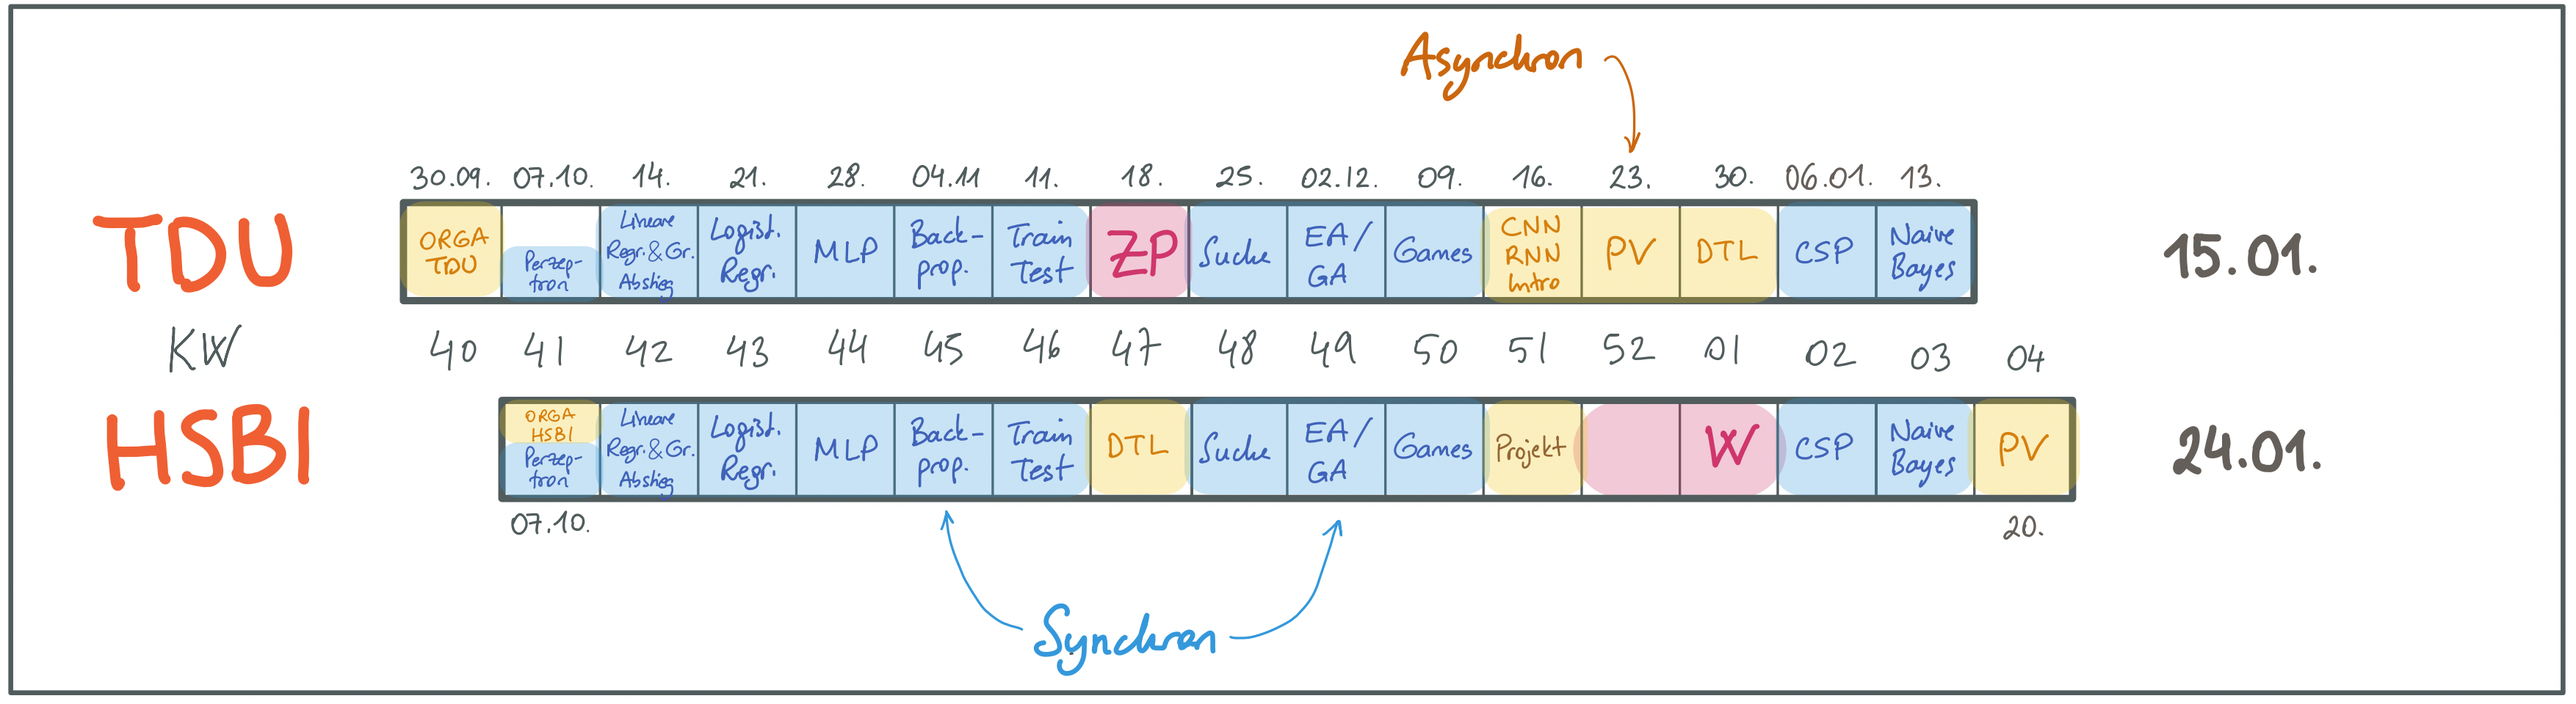
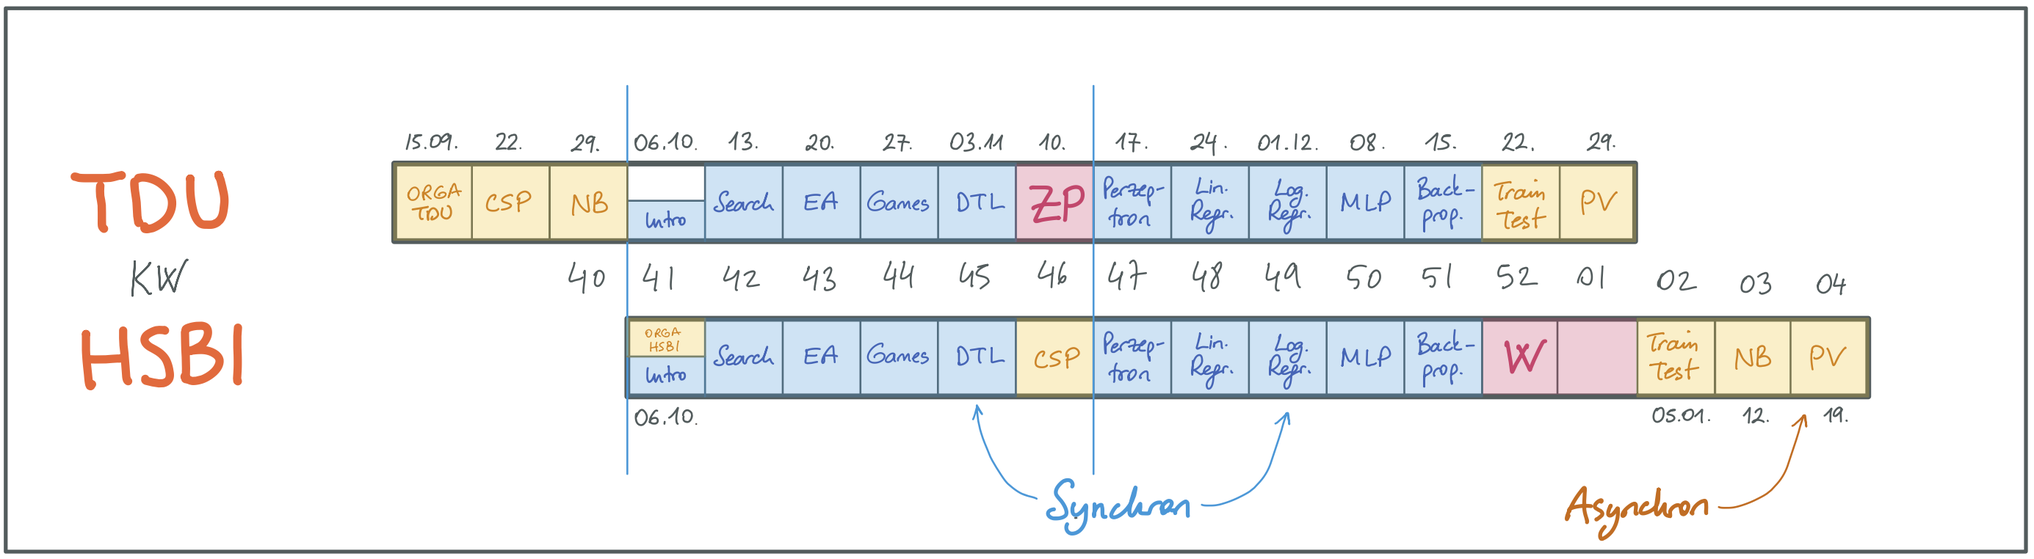
9fb9766 (orga: lecture starts later on 01.12. & 08.12. 60fdb3b89aab9c788a77d6105fc1ff8878502cc5, 2025-09-04)

diff --git a/readme_hsbi.md b/readme_hsbi.md
@@ -80,26 +80,24 @@ Abgabe der Übungsblätter jeweils **Montag bis 11:00 Uhr** im
 [ILIAS](https://www.hsbi.de/elearning/goto.php?target=exc_1420535&client_id=FH-Bielefeld).
 Vorstellung der Lösung im jeweiligen Praktikum in der Abgabewoche.
 
-| Monat | Woche | Vorlesung | Lead | Abgabe Aufgabenblatt | Vorstellung Praktikum |
+| Woche | Thema | Vorlesung: Selbststudium (Vorbereitung) | Vorlesung: Gemeinsame Sitzung | Praktikum | AI Connect |
 |:---|:---|:---|:---|:---|:---|
-| Oktober | 41 | 07.: [Orga](https://www.hsbi.de/elearning/data/FH-Bielefeld/lm_data/lm_1358898/index.html#überblick-modulinhalte) (*Zoom*); [Einführung KI](lecture/intro/intro1-overview.md), [Problemlösen](lecture/intro/intro2-problemsolving.md); [Machine Learning 101](lecture/dtl/dtl1-mlbasics.md), [Perzeptron](lecture/nn/nn01-perceptron.md) | Carsten, Canan |  |  |
-|  | 42 | 14.: [Lineare Regression](lecture/nn/nn02-linear-regression.md) | Canan | 14.: [Blatt: Perzeptron](homework/sheet-nn-perceptron.md) | 14\. / 15. |
-|  | 43 | 21.: [Logistische Regression](lecture/nn/nn03-logistic-regression.md) | Canan |  |  |
-|  | 44 | 28.: [Overfitting](lecture/nn/nn04-overfitting.md), [Multilayer Perceptron](lecture/nn/nn05-mlp.md) | Canan | 28.: [Blatt: Regression](homework/sheet-nn-regression.md) | 28\. / 29. |
-| November | 45 | 04.: [Backpropagation](lecture/nn/nn06-backprop.md) | Canan | 04.: [Blatt: MLP](homework/sheet-nn-mlp.md) | 04\. / 05. |
-|  | 46 | 11.: [Training & Testing](lecture/nn/nn07-training-testing.md), [Performanzanalyse](lecture/nn/nn08-testing.md) | Canan | 11.: [Blatt: Backpropagation](homework/sheet-nn-backprop.md) | 11\. / 12. |
-|  | 47 | 18.: [Machine Learning 101](lecture/dtl/dtl1-mlbasics.md), [CAL2](lecture/dtl/dtl2-cal2.md), [Pruning](lecture/dtl/dtl3-pruning.md), [CAL3](lecture/dtl/dtl4-cal3.md), [Entropie](lecture/dtl/dtl5-entropy.md), [ID3 und C4.5](lecture/dtl/dtl6-id3.md) | Carsten |  |  |
-|  | 48 | 25.: [Tiefensuche](lecture/searching/search1-dfs.md), [Breitensuche](lecture/searching/search2-bfs.md), [Branch-and-Bound](lecture/searching/search3-branchandbound.md), [Best First](lecture/searching/search4-bestfirst.md), [A-Stern](lecture//searching/search5-astar.md) | Carsten | 25.: [Blatt: DTL](homework/sheet-dtl.md) | 25\. / 26. |
-| Dezember | 49 | 02.: [Gradientensuche](lecture/searching/search6-gradient.md), [Simulated Annealing](lecture/searching/search7-annealing.md); [Intro EA/GA](lecture/ea/ea1-intro.md), [Genetische Algorithmen](lecture/ea/ea2-ga.md) | Carsten | 02.: [Blatt: Suche](homework/sheet-search.md) | 02\. / 03. |
-|  | 50 | 09.: [Optimale Spiele](lecture/games/games1-intro.md), [Games mit Minimax](lecture/games/games2-minimax.md), [Minimax und Heuristiken](lecture/games/games3-heuristics.md), [Alpha-Beta-Pruning](lecture/games/games4-alphabeta.md) | Carsten | 09.: [Blatt: EA/GA](homework/sheet-ea.md) | 09\. / 10. |
-|  | 51 | 16.: ~~Projektwoche Semester 1+3~~ Intro Deep Learning und offene Sprechstunde | Canan, Carsten |  |  |
-|  | 52 | 23.: *Weihnachtspause* |  |  |  |
-|  | 01 | 30.: *Weihnachtspause* |  |  |  |
-| Januar | 02 | 06.: [Einführung Constraints](lecture/csp/csp1-intro.md), [Lösen von diskreten CSP](lecture/csp/csp2-backtrackingsearch.md), [CSP und Heuristiken](lecture/csp/csp3-heuristics.md), [Kantenkonsistenz und AC-3](lecture/csp/csp4-ac3.md) | Carsten | 06.: [Blatt: Games](homework/sheet-games.md) | 06\. / 07. |
-|  | 03 | 13.: [Wahrscheinlichkeitstheorie](lecture/naivebayes/nb1-probability.md), [Naive Bayes](lecture/naivebayes/nb2-naivebayes.md) | Carsten | 13.: [Blatt: CSP](homework/sheet-csp.md) | 13\. / 14. |
-|  | 04 | 20.: Rückblick (*Zoom*), [Prüfungsvorbereitung HSBI](admin/exams-hsbi.md) | Carsten | 20.: [Blatt: Naive Bayes](homework/sheet-nb.md) | 20\. / 21. |
-| *(Prüfungsphase I)* |  | **Klausur**: Di, 04. Feb 2025, 10-18 Uhr (je Klausur 90’, Vergabe ca. 2 Wochen vorher) |  |  |  |
-| *(Prüfungsphase II)* |  | **Klausur**: Di, 01. Apr 2025, 10-16 Uhr (je Klausur 90’, Vergabe ca. 2 Wochen vorher) |  |  |  |
+| 06.10. | Orga, Intro | [Einführung KI](lecture/intro/intro1-overview.md) \| [Problemlösen](lecture/intro/intro2-problemsolving.md) | [Orga](https://github.com/Artificial-Intelligence-HSBI-TDU/KI-Vorlesung-W25/blob/master/readme_hsbi.md) (*Zoom*) \|\| Einführung Jupyter-Notebooks |  |  |
+| 13.10. | Search | [Tiefensuche](lecture/searching/search1-dfs.md) \| [Breitensuche](lecture/searching/search2-bfs.md) \| [Branch-and-Bound](lecture/searching/search3-branchandbound.md) \| [Best First](lecture/searching/search4-bestfirst.md) | [A-Stern](lecture/searching/search5-astar.md) |  |  |
+| 20.10. | EA | [Gradientensuche](lecture/searching/search6-gradient.md) \| [Simulated Annealing](lecture/searching/search7-annealing.md) \|\| [Intro EA/GA](lecture/ea/ea1-intro.md) | [Genetische Algorithmen](lecture/ea/ea2-ga.md) | [Blatt: Suche](homework/sheet-search.md) |  |
+| 27.10. | Games | [Optimale Spiele](lecture/games/games1-intro.md) \| [Games mit Minimax](lecture/games/games2-minimax.md) \| [Minimax und Heuristiken](lecture/games/games3-heuristics.md) | [Alpha-Beta-Pruning](lecture/games/games4-alphabeta.md) | [Blatt: EA/GA](homework/sheet-ea.md) |  |
+| 03.11. | DTL | [Machine Learning 101](lecture/dtl/dtl1-mlbasics.md) \| [CAL2](lecture/dtl/dtl2-cal2.md) \| [Pruning](lecture/dtl/dtl3-pruning.md) \| [CAL3](lecture/dtl/dtl4-cal3.md) | [Entropie](lecture/dtl/dtl5-entropy.md) \| [ID3 und C4.5](lecture/dtl/dtl6-id3.md) | [Blatt: Games](homework/sheet-games.md) |  |
+| 10.11. | CSP | [Einführung Constraints](lecture/csp/csp1-intro.md) \| [Lösen von diskreten CSP](lecture/csp/csp2-backtrackingsearch.md) \| [CSP und Heuristiken](lecture/csp/csp3-heuristics.md) | [Kantenkonsistenz und AC-3](lecture/csp/csp4-ac3.md) \| **TODO**: Backjumping oder SAT oder Bin Packing | [Blatt: DTL](homework/sheet-dtl.md) |  |
+| 17.11. | Perzeptron | [Perzeptron](lecture/nn/nn01-perceptron.md) | Perzeptron Lernalgorithmus Beispiel | [Blatt: CSP](homework/sheet-csp.md) |  |
+| 24.11. | Lin. Regr. | [Lineare Regression und Gradientenabstieg](lecture/nn/nn02-linear-regression.md) | Gradientenabstieg Beispiel | [Blatt: Perzeptron](homework/sheet-nn-perceptron.md) |  |
+| 01.12. | Log. Regr. | [Logistische Regression](lecture/nn/nn03-logistic-regression.md) | **ab 09:00**: Logistische Regression Beispiel |  | **Mo, 01.12., 08:00 Uhr: Kick-Off und Team-Building** |
+| 08.12. | MLP | [Overfitting und Regularisierung](lecture/nn/nn04-overfitting.md) \|\| [Multilayer Perceptron (MLP)](lecture/nn/nn05-mlp.md) | **ab 09:00**: MLP Beispiel |  | **Mo, 08.12., 08:00 Uhr: Project Launch** |
+| 15.12. | Backprop | [Backpropagation](lecture/nn/nn06-backprop.md) | Backpropagation Beispiel |  | **Fr, 19.12., 10:30 Uhr: Team-Präsentationen** |
+| *22.12.* |  |  | *Weihnachtspause* |  |  |
+| *29.12.* |  |  | *Weihnachtspause* |  |  |
+| 05.01. | Train&Test | [Training & Testing](lecture/nn/nn07-training-testing.md) | [Performanzanalyse](lecture/nn/nn08-testing.md) | [Blatt: MLP](homework/sheet-nn-mlp.md) |  |
+| 12.01. | NB | [Wahrscheinlichkeitstheorie](lecture/naivebayes/nb1-probability.md) \| [Naive Bayes](lecture/naivebayes/nb2-naivebayes.md) | **TODO**: Bayes’sche Inferenz/Netze | [Blatt: Backpropagation](homework/sheet-nn-backprop.md) |  |
+| 19.01. | PV | [Prüfungsvorbereitung HSBI](admin/exams-hsbi.md) | Rückblick (*Zoom*) | [Blatt: Naive Bayes](homework/sheet-nb.md) |  |
 
 ## Prüfungsform, Note und Credits (HSBI)
 
@@ -159,4 +157,4 @@ Unless otherwise noted, this work is licensed under CC BY-SA 4.0.
   on Pixabay.com ([Pixabay
   License](https://pixabay.com/de/service/license/))
 
-<blockquote><p><sup><sub><strong>Last modified:</strong> 3aec522 (orga: fix lecture times table, 2025-08-29)<br></sub></sup></p></blockquote>
+<blockquote><p><sup><sub><strong>Last modified:</strong> 60fdb3b (orga: lecture starts later on 01.12. & 08.12., 2025-09-04)<br></sub></sup></p></blockquote>

diff --git a/readme_tdu.md b/readme_tdu.md
@@ -72,24 +72,24 @@ Classroom](https://classroom.google.com/c/NzE4Mzk0NDE5ODEz?cjc=fhzfku3))
 
 ## Fahrplan (TDU)
 
-| KW | Monat | Tag | Vorlesung | Lead | Abgabe Übung |
+| Woche | Thema | Vorlesung: Selbststudium (Vorbereitung) | Vorlesung: Gemeinsame Sitzung | Übung | AI Connect |
 |:---|:---|:---|:---|:---|:---|
-| 40 | Sep | 30\. | [Orga](https://www.hsbi.de/elearning/data/FH-Bielefeld/lm_data/lm_1358898/index.html#überblick-modulinhalte) (*Zoom*); [Einführung KI](lecture/intro/intro1-overview.md), [Problemlösen](lecture/intro/intro2-problemsolving.md) | Canan, Carsten |  |
-| 41 | Okt | 07\. (**12:30 - 13:30** Uhr TR) | [Machine Learning 101](lecture/dtl/dtl1-mlbasics.md), [Perzeptron](lecture/nn/nn01-perceptron.md) | Canan |  |
-| 42 |  | 14\. | [Lineare Regression](lecture/nn/nn02-linear-regression.md) | Canan | [Blatt: Perzeptron](homework/sheet-nn-perceptron.md) |
-| 43 |  | 21\. | [Logistische Regression](lecture/nn/nn03-logistic-regression.md) | Canan |  |
-| 44 |  | 28\. | [Overfitting](lecture/nn/nn04-overfitting.md), [Multilayer Perceptron](lecture/nn/nn05-mlp.md) | Canan | [Blatt: Regression](homework/sheet-nn-regression.md) |
-| 45 | Nov | 04\. | [Backpropagation](lecture/nn/nn06-backprop.md) | Canan | [Blatt: MLP](homework/sheet-nn-mlp.md) |
-| 46 |  | 11\. | [Training & Testing](lecture/nn/nn07-training-testing.md), [Performanzanalyse](lecture/nn/nn08-testing.md) | Canan | [Blatt: Backpropagation](homework/sheet-nn-backprop.md) |
-| 47 |  | 18\. | **Zwischenprüfung** |  |  |
-| 48 |  | 25\. | [Tiefensuche](lecture/searching/search1-dfs.md), [Breitensuche](lecture/searching/search2-bfs.md), [Branch-and-Bound](lecture/searching/search3-branchandbound.md), [Best First](lecture/searching/search4-bestfirst.md), [A-Stern](lecture//searching/search5-astar.md) | Carsten |  |
-| 49 | Dez | 02\. | [Gradientensuche](lecture/searching/search6-gradient.md), [Simulated Annealing](lecture/searching/search7-annealing.md); [Intro EA/GA](lecture/ea/ea1-intro.md), [Genetische Algorithmen](lecture/ea/ea2-ga.md) | Carsten | [Blatt: Suche](homework/sheet-search.md) |
-| 50 |  | 09\. | [Optimale Spiele](lecture/games/games1-intro.md), [Games mit Minimax](lecture/games/games2-minimax.md), [Minimax und Heuristiken](lecture/games/games3-heuristics.md), [Alpha-Beta-Pruning](lecture/games/games4-alphabeta.md) | Carsten | [Blatt: EA/GA](homework/sheet-ea.md) |
-| 51 |  | 16\. | [Vorschau Deep Learning (CNN, RNN)](lecture/nn/nn10-cnn.md) | Canan | [Blatt: Games](homework/sheet-games.md) |
-| 52 |  | 23\. (**Google Meet**) | [Prüfungsvorbereitung TDU](admin/exams-tdu.md) | Canan |  |
-| 01 |  | 30\. (**KEINE Sprechstunde**) | [Machine Learning 101](lecture/dtl/dtl1-mlbasics.md), [CAL2](lecture/dtl/dtl2-cal2.md), [Pruning](lecture/dtl/dtl3-pruning.md), [CAL3](lecture/dtl/dtl4-cal3.md), [Entropie](lecture/dtl/dtl5-entropy.md), [ID3 und C4.5](lecture/dtl/dtl6-id3.md) |  |  |
-| 02 | Jan | 06\. | [Einführung Constraints](lecture/csp/csp1-intro.md), [Lösen von diskreten CSP](lecture/csp/csp2-backtrackingsearch.md), [CSP und Heuristiken](lecture/csp/csp3-heuristics.md), [Kantenkonsistenz und AC-3](lecture/csp/csp4-ac3.md) | Carsten | [Blatt: DTL](homework/sheet-dtl.md) |
-| 03 |  | 13\. | [Wahrscheinlichkeitstheorie](lecture/naivebayes/nb1-probability.md), [Naive Bayes](lecture/naivebayes/nb2-naivebayes.md) | Carsten | [Blatt: CSP](homework/sheet-csp.md) |
+| 15.09. | Orga | [Einführung KI](lecture/intro/intro1-overview.md) | [Orga](https://github.com/Artificial-Intelligence-HSBI-TDU/KI-Vorlesung-W25/blob/master/readme_tdu.md) (*Zoom*) |  |  |
+| 22.09. | CSP | [Einführung Constraints](lecture/csp/csp1-intro.md) \| [Lösen von diskreten CSP](lecture/csp/csp2-backtrackingsearch.md) \| [CSP und Heuristiken](lecture/csp/csp3-heuristics.md) | [Kantenkonsistenz und AC-3](lecture/csp/csp4-ac3.md) \| **TODO**: Backjumping oder SAT oder Bin Packing |  |  |
+| 29.09. | NB | [Wahrscheinlichkeitstheorie](lecture/naivebayes/nb1-probability.md) \| [Naive Bayes](lecture/naivebayes/nb2-naivebayes.md) | **TODO**: Bayes’sche Inferenz/Netze | [Blatt: CSP](homework/sheet-csp.md) |  |
+| 06.10. | Intro | [Problemlösen](lecture/intro/intro2-problemsolving.md) | **ab 10:45**: Einführung Jupyter-Notebooks | [Blatt: Naive Bayes](homework/sheet-nb.md) |  |
+| 13.10. | Search | [Tiefensuche](lecture/searching/search1-dfs.md) \| [Breitensuche](lecture/searching/search2-bfs.md) \| [Branch-and-Bound](lecture/searching/search3-branchandbound.md) \| [Best First](lecture/searching/search4-bestfirst.md) | [A-Stern](lecture/searching/search5-astar.md) |  |  |
+| 20.10. | EA | [Gradientensuche](lecture/searching/search6-gradient.md) \| [Simulated Annealing](lecture/searching/search7-annealing.md) \|\| [Intro EA/GA](lecture/ea/ea1-intro.md) | [Genetische Algorithmen](lecture/ea/ea2-ga.md) | [Blatt: Suche](homework/sheet-search.md) |  |
+| 27.10. | Games | [Optimale Spiele](lecture/games/games1-intro.md) \| [Games mit Minimax](lecture/games/games2-minimax.md) \| [Minimax und Heuristiken](lecture/games/games3-heuristics.md) | [Alpha-Beta-Pruning](lecture/games/games4-alphabeta.md) | [Blatt: EA/GA](homework/sheet-ea.md) |  |
+| 03.11. | DTL | [Machine Learning 101](lecture/dtl/dtl1-mlbasics.md) \| [CAL2](lecture/dtl/dtl2-cal2.md) \| [Pruning](lecture/dtl/dtl3-pruning.md) \| [CAL3](lecture/dtl/dtl4-cal3.md) | [Entropie](lecture/dtl/dtl5-entropy.md) \| [ID3 und C4.5](lecture/dtl/dtl6-id3.md) | [Blatt: Games](homework/sheet-games.md) |  |
+| 10.11. | ZP |  | **Zwischenprüfung** |  |  |
+| 17.11. | Perzeptron | [Perzeptron](lecture/nn/nn01-perceptron.md) | Perzeptron Lernalgorithmus Beispiel | [Blatt: DTL](homework/sheet-dtl.md) |  |
+| 24.11. | Lin. Regr. | [Lineare Regression und Gradientenabstieg](lecture/nn/nn02-linear-regression.md) | Gradientenabstieg Beispiel | [Blatt: Perzeptron](homework/sheet-nn-perceptron.md) |  |
+| 01.12. | Log. Regr. | [Logistische Regression](lecture/nn/nn03-logistic-regression.md) | **ab 11:00**: Logistische Regression Beispiel |  | **Mo, 01.12., 10:00 Uhr: Kick-Off und Team-Building** |
+| 08.12. | MLP | [Overfitting und Regularisierung](lecture/nn/nn04-overfitting.md) \|\| [Multilayer Perceptron (MLP)](lecture/nn/nn05-mlp.md) | **ab 11:00**: MLP Beispiel | [Blatt: Regression](homework/sheet-nn-regression.md) | **Mo, 08.12., 10:00 Uhr: Project Launch** |
+| 15.12. | Backprop | [Backpropagation](lecture/nn/nn06-backprop.md) | Backpropagation Beispiel | [Blatt: MLP](homework/sheet-nn-mlp.md) | **Fr, 19.12., 12:30 Uhr: Team-Präsentationen** |
+| 22.12. | Train&Test | [Training & Testing](lecture/nn/nn07-training-testing.md) | [Performanzanalyse](lecture/nn/nn08-testing.md) | [Blatt: Backpropagation](homework/sheet-nn-backprop.md) |  |
+| 29.12. | PV |  | Rückblick (*Zoom*) \| [Prüfungsvorbereitung TDU](admin/exams-tdu.md) |  |  |
 
 ## Prüfungsform, Note und Credits (TDU)
 
@@ -138,4 +138,4 @@ Unless otherwise noted, this work is licensed under CC BY-SA 4.0.
   on Pixabay.com ([Pixabay
   License](https://pixabay.com/de/service/license/))
 
-<blockquote><p><sup><sub><strong>Last modified:</strong> 4a1de63 (orga: fix lecture time tdu, 2025-08-29)<br></sub></sup></p></blockquote>
+<blockquote><p><sup><sub><strong>Last modified:</strong> 60fdb3b (orga: lecture starts later on 01.12. & 08.12., 2025-09-04)<br></sub></sup></p></blockquote>

diff --git a/lecture/intro/intro1-overview.md b/lecture/intro/intro1-overview.md
@@ -581,11 +581,6 @@ Unless otherwise noted, this work is licensed under CC BY-SA 4.0.
   [others](https://xtools.wmflabs.org/articleinfo-authorship/de.wikipedia.org/Kognition?uselang=de)
   on Wikipedia ([CC BY-SA
   3.0](https://creativecommons.org/licenses/by-sa/3.0/legalcode))
-- [Turing Test version
-  3.png](https://commons.wikimedia.org/wiki/File:Turing_Test_version_3.png)
-  by [Bilby](https://commons.wikimedia.org/wiki/User:Bilby) on Wikimedia
-  Commons ([Public
-  Domain](https://en.wikipedia.org/wiki/en:public_domain))
 - [AvB - RoboCup 2013 -
   Eindhoven](https://www.flickr.com/photos/80267257@N05/10151827605) by
   [RoboCup2013](https://www.flickr.com/photos/80267257@N05) on
@@ -596,5 +591,10 @@ Unless otherwise noted, this work is licensed under CC BY-SA 4.0.
   [others](https://xtools.wmflabs.org/articleinfo-authorship/de.wikipedia.org/Intelligenz?uselang=de)
   on Wikipedia ([CC BY-SA
   3.0](https://creativecommons.org/licenses/by-sa/3.0/legalcode))
+- [Turing Test version
+  3.png](https://commons.wikimedia.org/wiki/File:Turing_Test_version_3.png)
+  by [Bilby](https://commons.wikimedia.org/wiki/User:Bilby) on Wikimedia
+  Commons ([Public
+  Domain](https://en.wikipedia.org/wiki/en:public_domain))
 
-<blockquote><p><sup><sub><strong>Last modified:</strong> d691287 (lecture: re-enabling image 'turing test' after toolchain fix (Intro1), 2025-09-01)<br></sub></sup></p></blockquote>
+<blockquote><p><sup><sub><strong>Last modified:</strong> d691287 (lecture: re-enabling image turing test after toolchain fix (Intro1), 2025-09-01)<br></sub></sup></p></blockquote>

diff --git a/homework/sheet-search.md b/homework/sheet-search.md
@@ -97,7 +97,7 @@ Unless otherwise noted, this work is licensed under CC BY-SA 4.0.
   Commons ([Public
   Domain](https://en.wikipedia.org/wiki/en:public_domain))
 
-<blockquote><p><sup><sub><strong>Last modified:</strong> c378cdb (lecture: re-enabling image 'map germany' after toolchain fix (Search), 2025-09-01)<br></sub></sup></p></blockquote>
+<blockquote><p><sup><sub><strong>Last modified:</strong> c378cdb (lecture: re-enabling image map germany after toolchain fix (Search), 2025-09-01)<br></sub></sup></p></blockquote>
 
 [^1]: Im Python-Code tauchen immer wieder “TODO”-Marker auf - bitte mit
     Vorsicht genießen!

diff --git a/lecture/ea/ea1-intro.md b/lecture/ea/ea1-intro.md
@@ -206,4 +206,4 @@ Unless otherwise noted, this work is licensed under CC BY-SA 4.0.
   [Johannes Plenio](https://unsplash.com/@jplenio) on Unsplash.com
   ([Unsplash License](https://unsplash.com/license))
 
-<blockquote><p><sup><sub><strong>Last modified:</strong> c3912e2 (lecture: re-enabling image 'evolution' after toolchain fix (EA1), 2025-09-01)<br></sub></sup></p></blockquote>
+<blockquote><p><sup><sub><strong>Last modified:</strong> c3912e2 (lecture: re-enabling image evolution after toolchain fix (EA1), 2025-09-01)<br></sub></sup></p></blockquote>

diff --git a/lecture/searching/search2-bfs.md b/lecture/searching/search2-bfs.md
@@ -222,7 +222,7 @@ anwendbaren Operationen bestimmt.)
 
 Unless otherwise noted, this work is licensed under CC BY-SA 4.0.
 
-<blockquote><p><sup><sub><strong>Last modified:</strong> 7f2a2c8 (lecture: add 'Search' to title (Searching), 2025-08-29)<br></sub></sup></p></blockquote>
+<blockquote><p><sup><sub><strong>Last modified:</strong> 7f2a2c8 (lecture: add Search to title (Searching), 2025-08-29)<br></sub></sup></p></blockquote>
 
 [^1]: gilt für Tree-Search-Variante; vollständig in
     Graph-Search-Variante bei endlichem Suchraum

diff --git a/lecture/searching/search4-bestfirst.md b/lecture/searching/search4-bestfirst.md
@@ -188,4 +188,4 @@ Unless otherwise noted, this work is licensed under CC BY-SA 4.0.
   Commons ([Public
   Domain](https://en.wikipedia.org/wiki/en:public_domain))
 
-<blockquote><p><sup><sub><strong>Last modified:</strong> c378cdb (lecture: re-enabling image 'map germany' after toolchain fix (Search), 2025-09-01)<br></sub></sup></p></blockquote>
+<blockquote><p><sup><sub><strong>Last modified:</strong> c378cdb (lecture: re-enabling image map germany after toolchain fix (Search), 2025-09-01)<br></sub></sup></p></blockquote>

diff --git a/lecture/searching/search6-gradient.md b/lecture/searching/search6-gradient.md
@@ -217,4 +217,4 @@ Unless otherwise noted, this work is licensed under CC BY-SA 4.0.
   Commons ([Public
   Domain](https://en.wikipedia.org/wiki/en:public_domain))
 
-<blockquote><p><sup><sub><strong>Last modified:</strong> c378cdb (lecture: re-enabling image 'map germany' after toolchain fix (Search), 2025-09-01)<br></sub></sup></p></blockquote>
+<blockquote><p><sup><sub><strong>Last modified:</strong> c378cdb (lecture: re-enabling image map germany after toolchain fix (Search), 2025-09-01)<br></sub></sup></p></blockquote>

diff --git a/lecture/searching/search7-annealing.md b/lecture/searching/search7-annealing.md
@@ -257,4 +257,4 @@ Unless otherwise noted, this work is licensed under CC BY-SA 4.0.
   on Wikimedia Commons ([Public
   Domain](https://en.wikipedia.org/wiki/Public_domain))
 
-<blockquote><p><sup><sub><strong>Last modified:</strong> c33cce6 (lecture: re-enabling image 'exp e' after toolchain fix (Search7), 2025-09-01)<br></sub></sup></p></blockquote>
+<blockquote><p><sup><sub><strong>Last modified:</strong> c33cce6 (lecture: re-enabling image exp e after toolchain fix (Search7), 2025-09-01)<br></sub></sup></p></blockquote>

diff --git a/lecture/games/games1-intro.md b/lecture/games/games1-intro.md
@@ -166,4 +166,4 @@ Unless otherwise noted, this work is licensed under CC BY-SA 4.0.
   Flickr.com ([CC BY
   2.0](https://creativecommons.org/licenses/by/2.0/?ref=ccsearch&atype=rich))
 
-<blockquote><p><sup><sub><strong>Last modified:</strong> f3e6437 (lecture: add 'Games' to title (Games), 2025-08-29)<br></sub></sup></p></blockquote>
+<blockquote><p><sup><sub><strong>Last modified:</strong> f3e6437 (lecture: add Games to title (Games), 2025-08-29)<br></sub></sup></p></blockquote>

diff --git a/lecture/games/games3-heuristics.md b/lecture/games/games3-heuristics.md
@@ -218,4 +218,4 @@ Unless otherwise noted, this work is licensed under CC BY-SA 4.0.
   Flickr.com ([CC BY
   2.0](https://creativecommons.org/licenses/by/2.0/?ref=ccsearch&atype=rich))
 
-<blockquote><p><sup><sub><strong>Last modified:</strong> f3e6437 (lecture: add 'Games' to title (Games), 2025-08-29)<br></sub></sup></p></blockquote>
+<blockquote><p><sup><sub><strong>Last modified:</strong> f3e6437 (lecture: add Games to title (Games), 2025-08-29)<br></sub></sup></p></blockquote>

diff --git a/admin/exams-hsbi.md b/admin/exams-hsbi.md
@@ -369,4 +369,4 @@ her.
 
 Unless otherwise noted, this work is licensed under CC BY-SA 4.0.
 
-<blockquote><p><sup><sub><strong>Last modified:</strong> 6e35cb1 (markdown: replace 'operatorname' w/ mathop+text (workaround gh bug) (#441), 2025-08-12)<br></sub></sup></p></blockquote>
+<blockquote><p><sup><sub><strong>Last modified:</strong> 6e35cb1 (markdown: replace operatorname w/ mathop+text (workaround gh bug) (#441), 2025-08-12)<br></sub></sup></p></blockquote>
